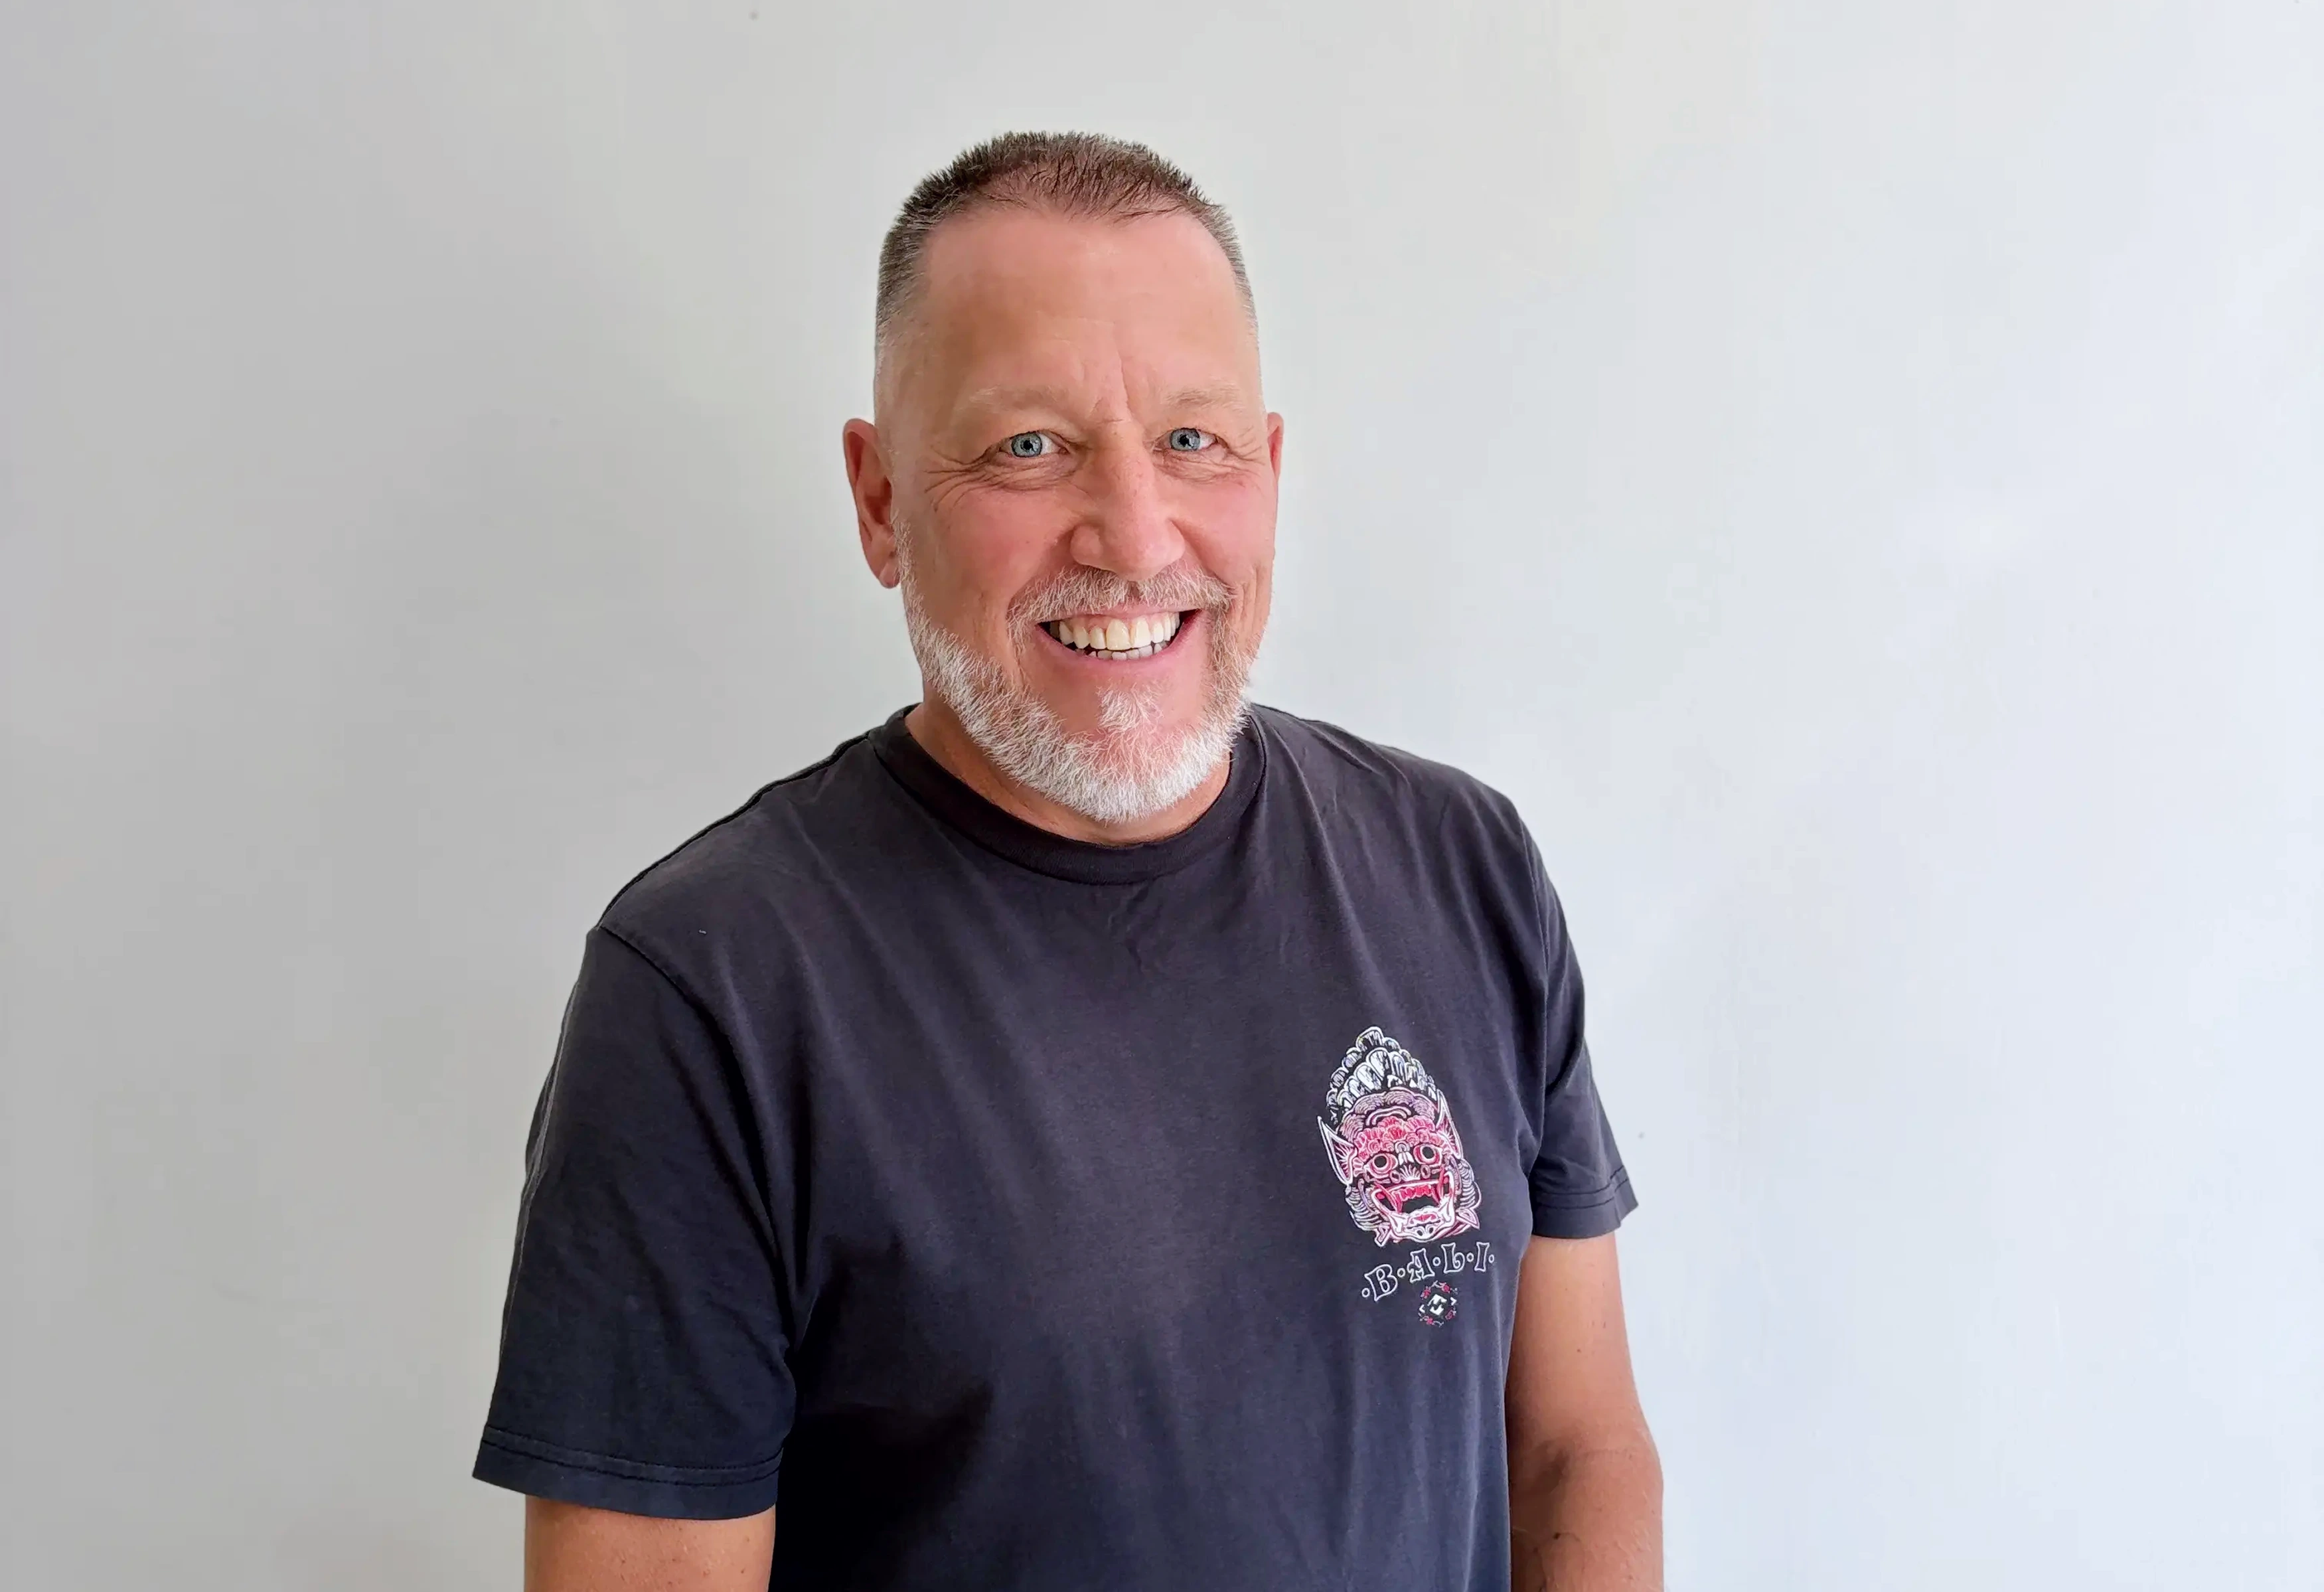
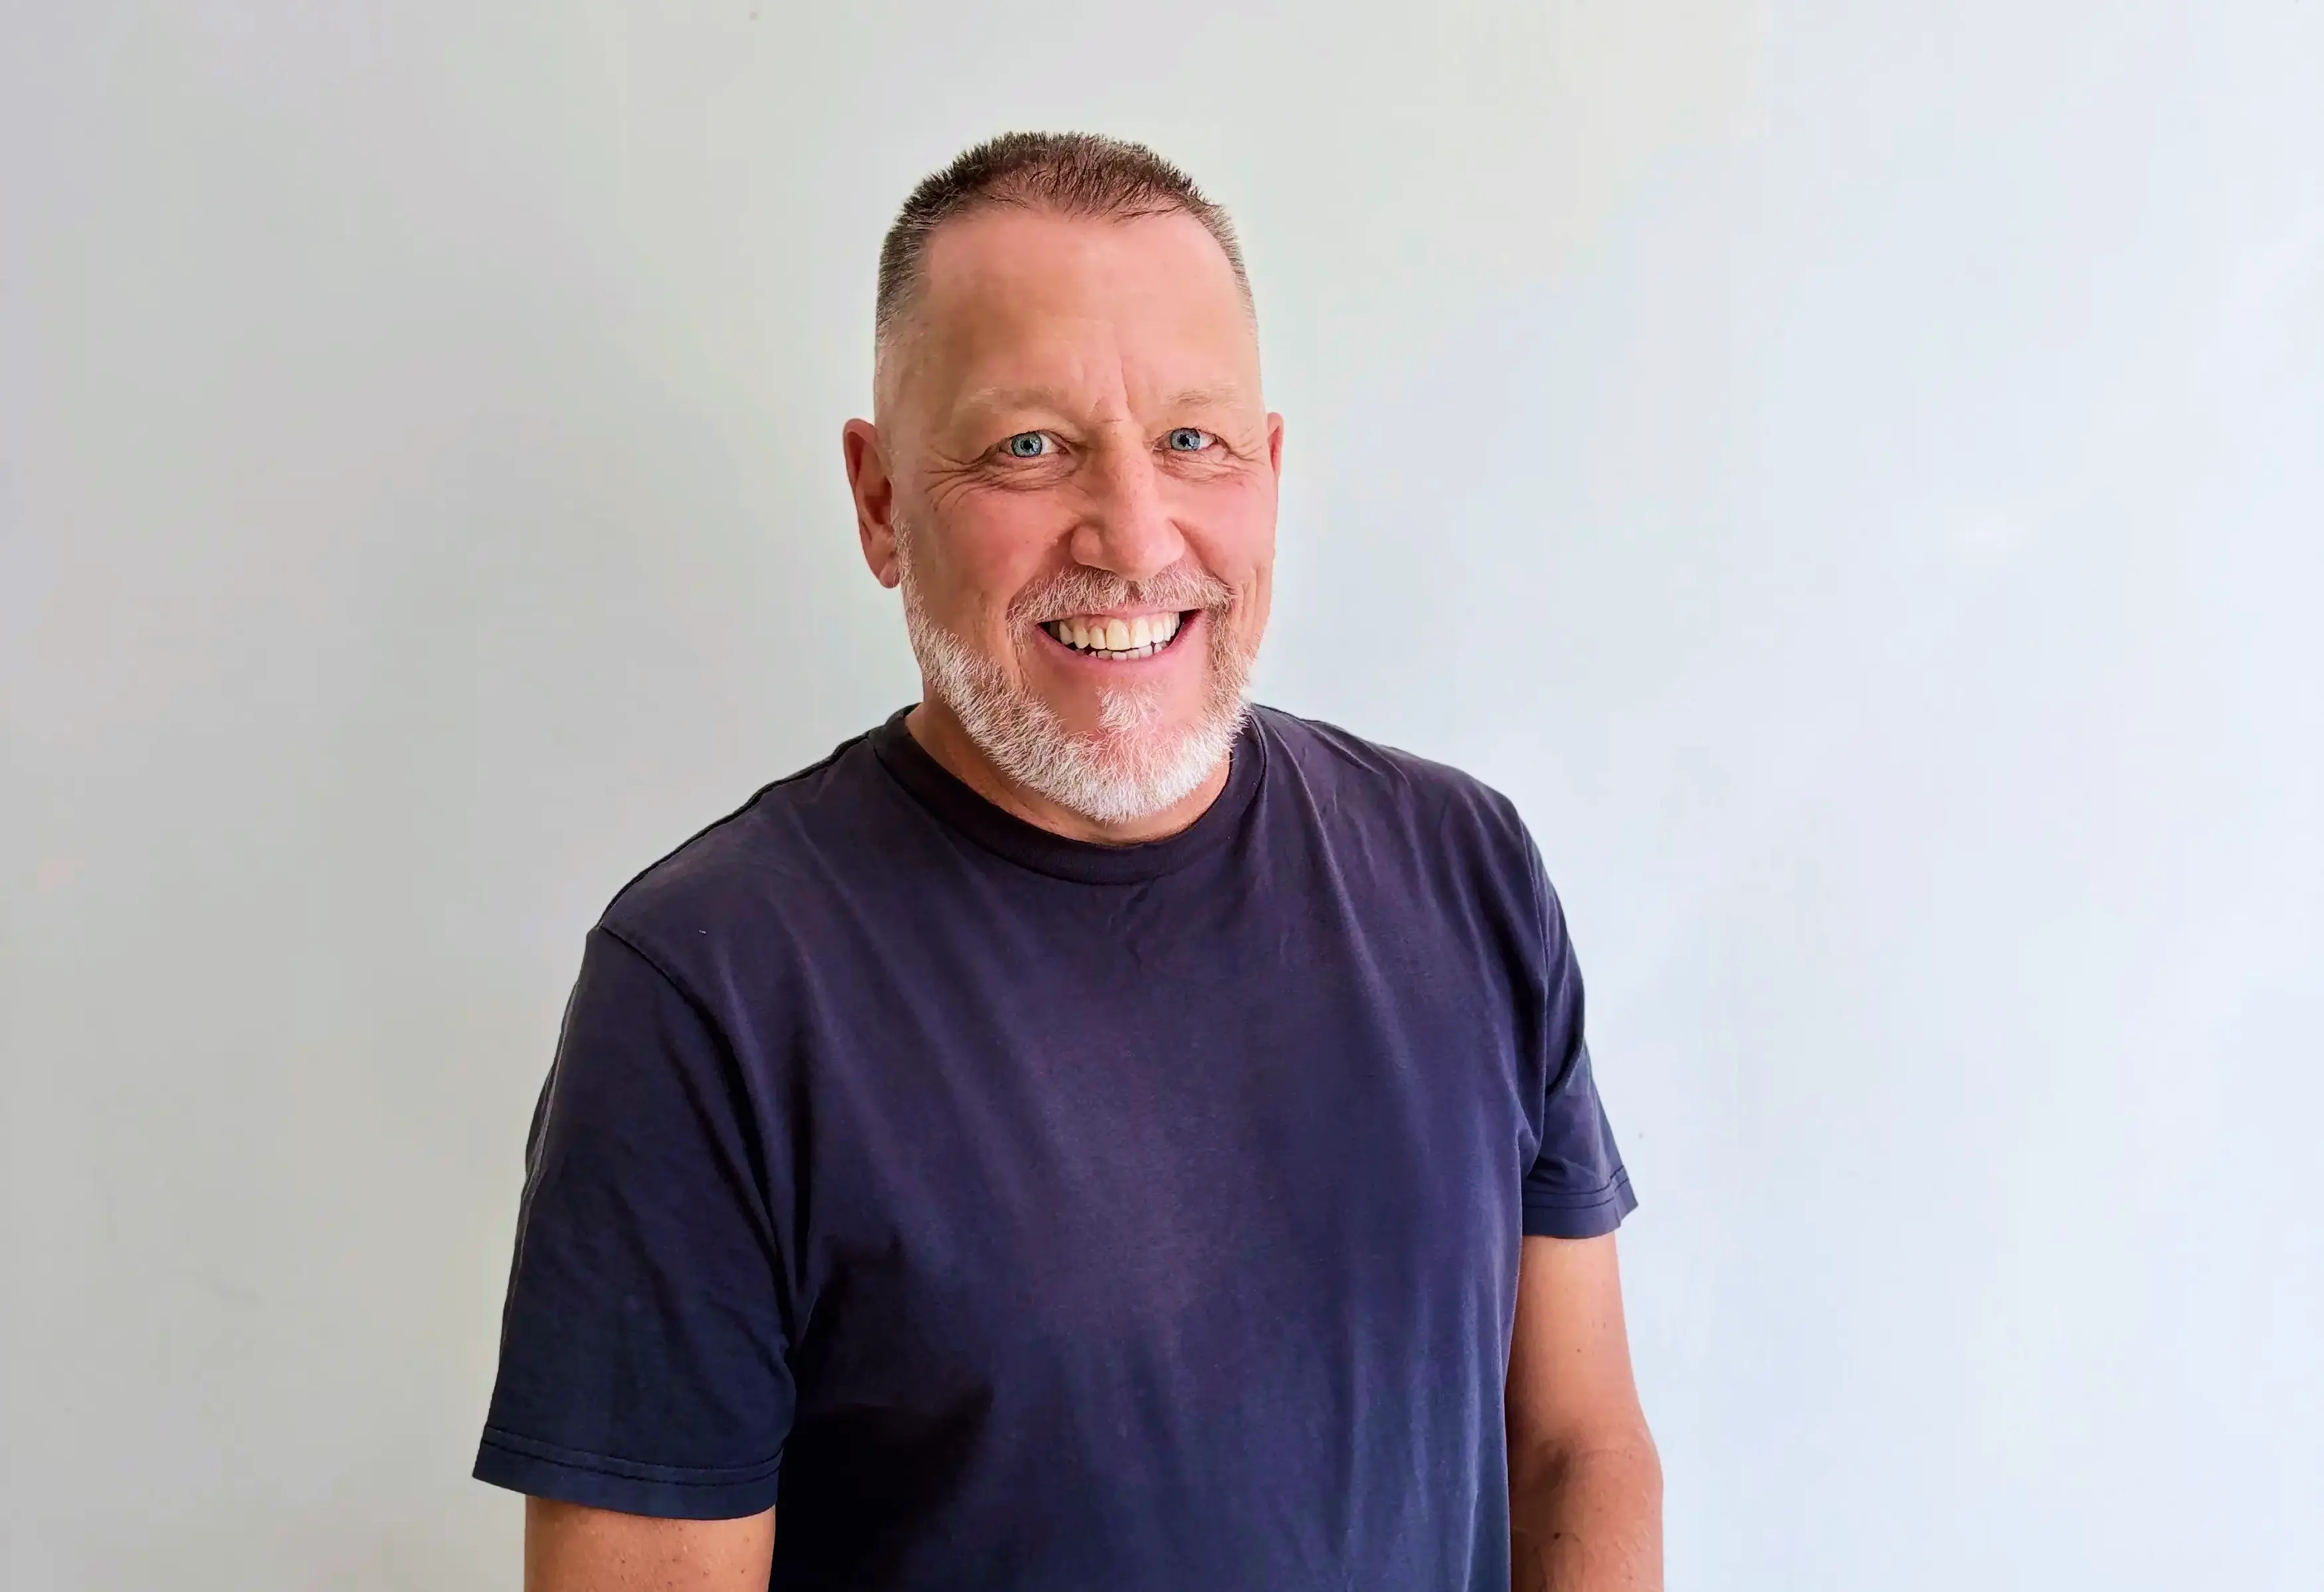
mark bio

Changed region(s): [[0.5604, 0.648, 0.6849, 0.8332]]

diff --git a/src/components/about/TeamSection.tsx b/src/components/about/TeamSection.tsx
@@ -94,7 +94,7 @@ export const members: TeamMember[] = [
             ImageDetail2: `${import.meta.env.BASE_URL}Team Member Photo/Black top/Detail Photo 2/Mark.webp`,
         },
 
-        bio: "CTO with an eagle eye for detail, dedicated to flawless code, seamless architecture, and driving technical excellence.",
+        bio: "Mark helps sustainability founders with a live pilot, a real commercial path, and a technical gap they can’t close alone.",
 
         techStack: [
             { name: 'Figma', logo: '🎨' },